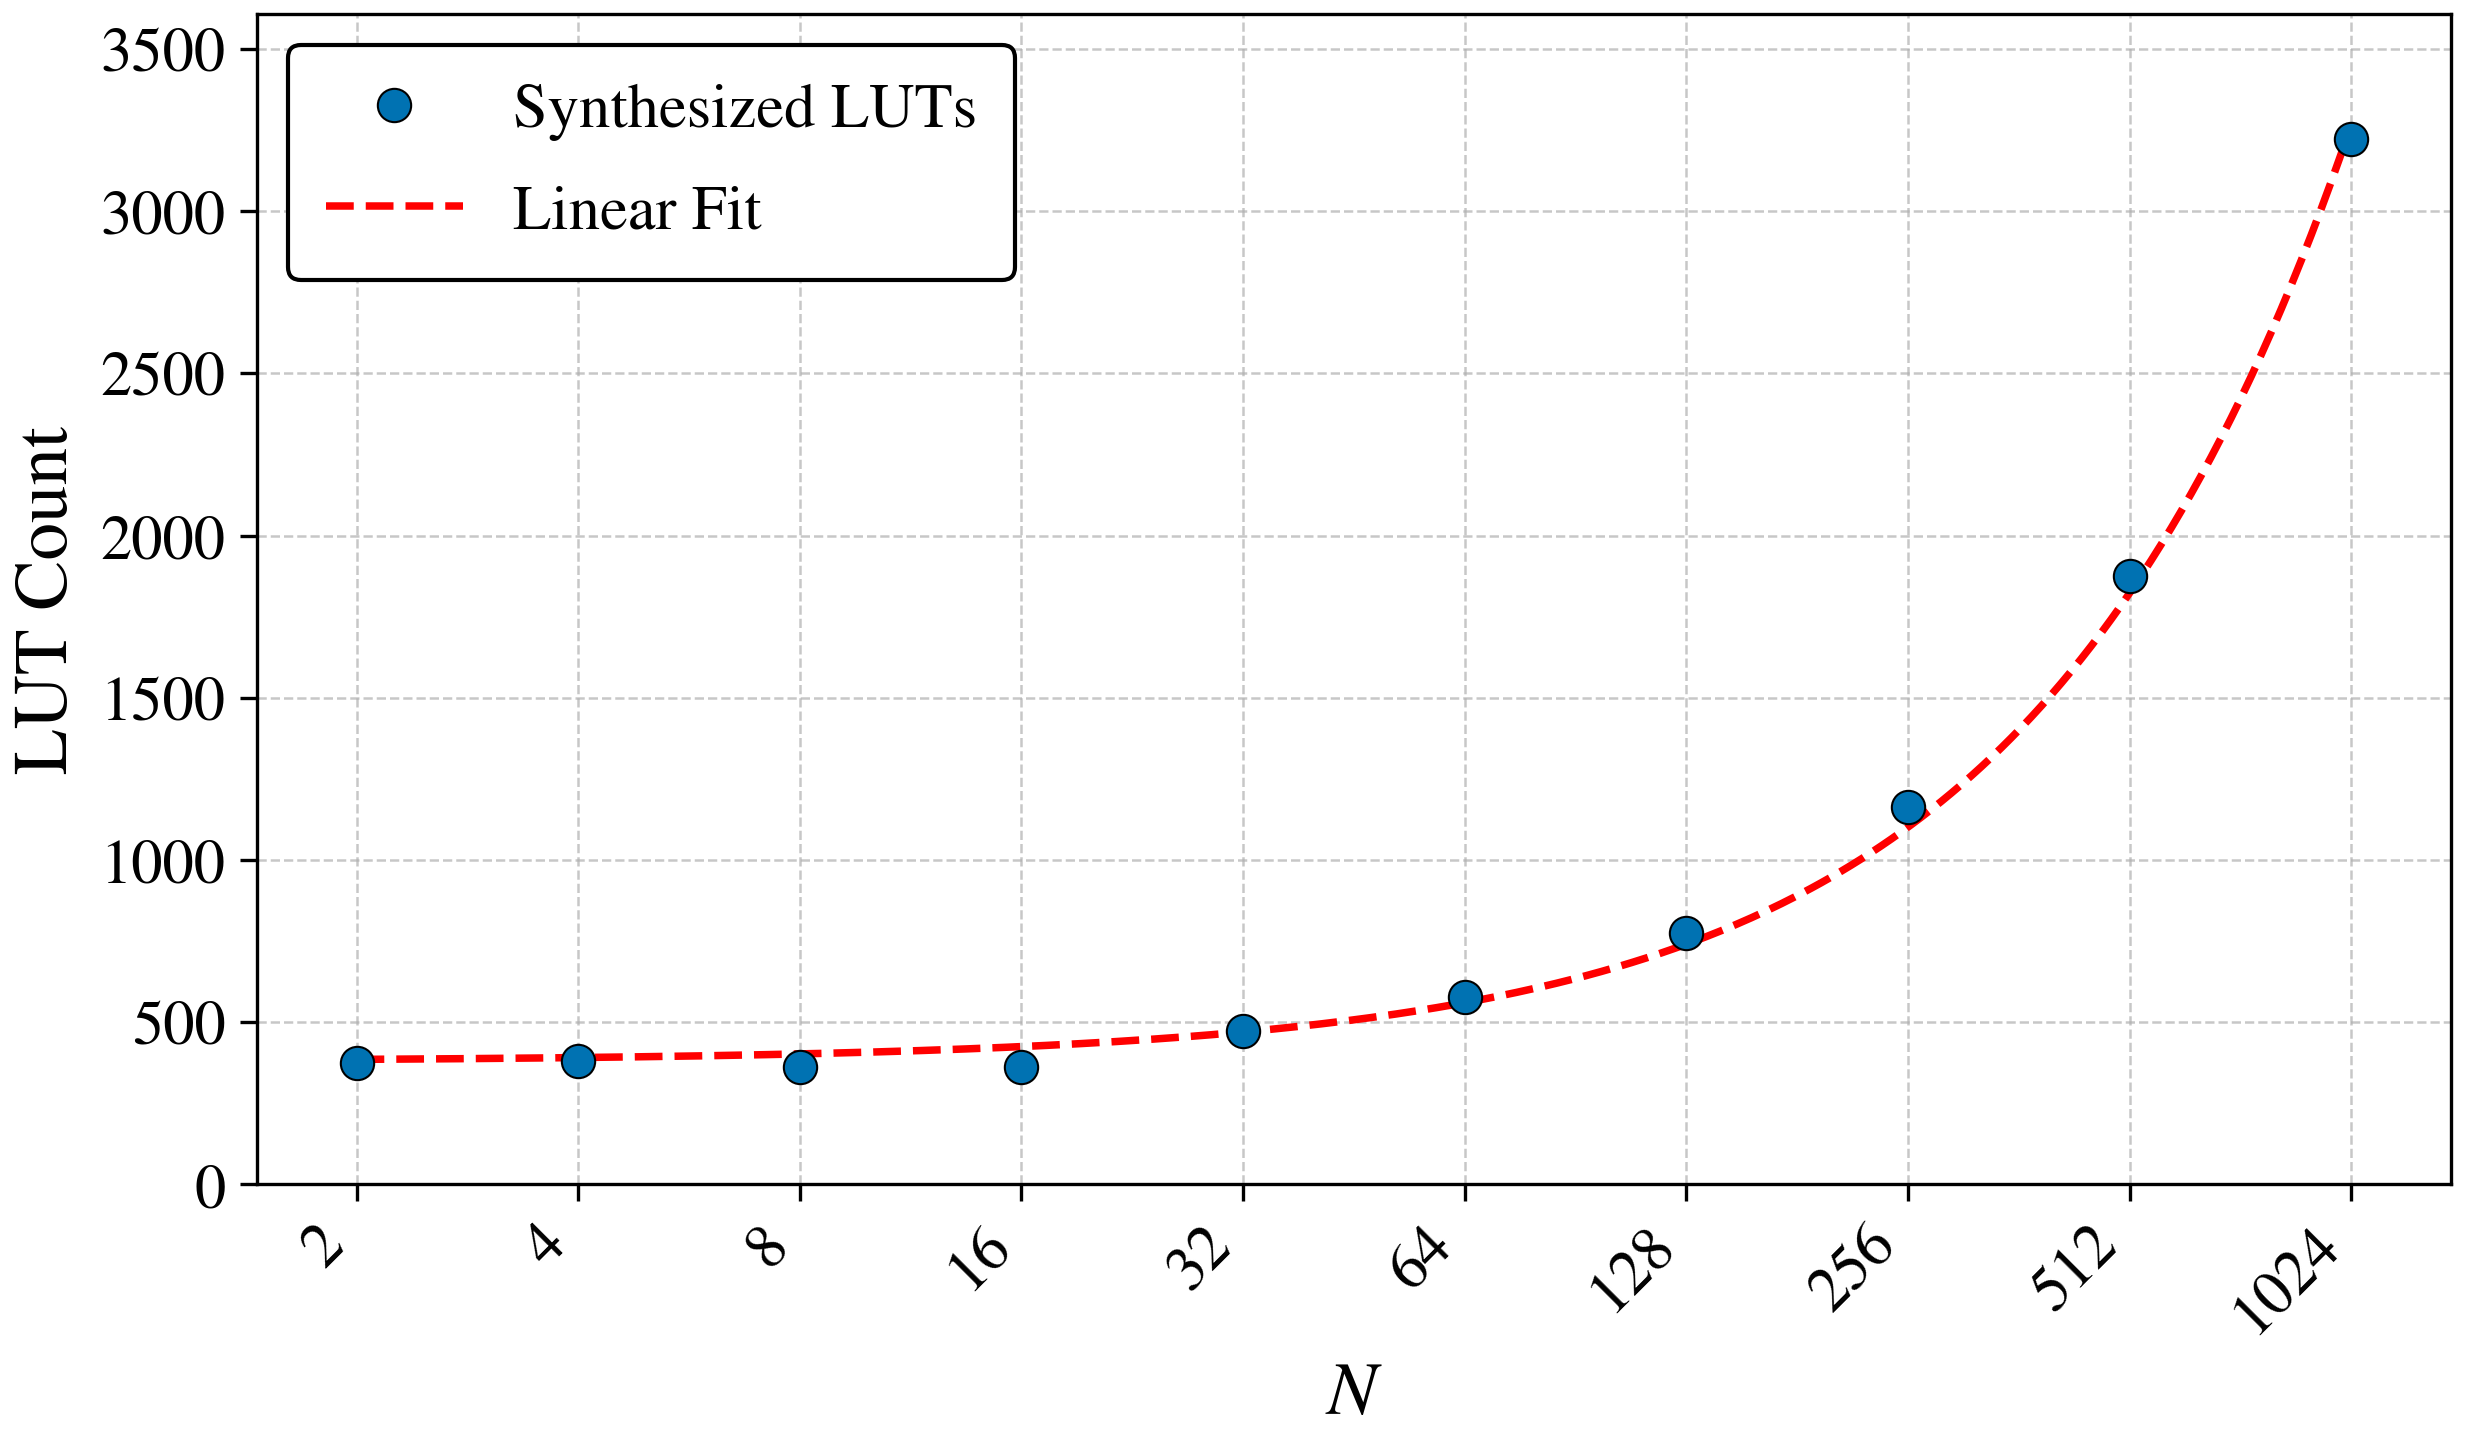
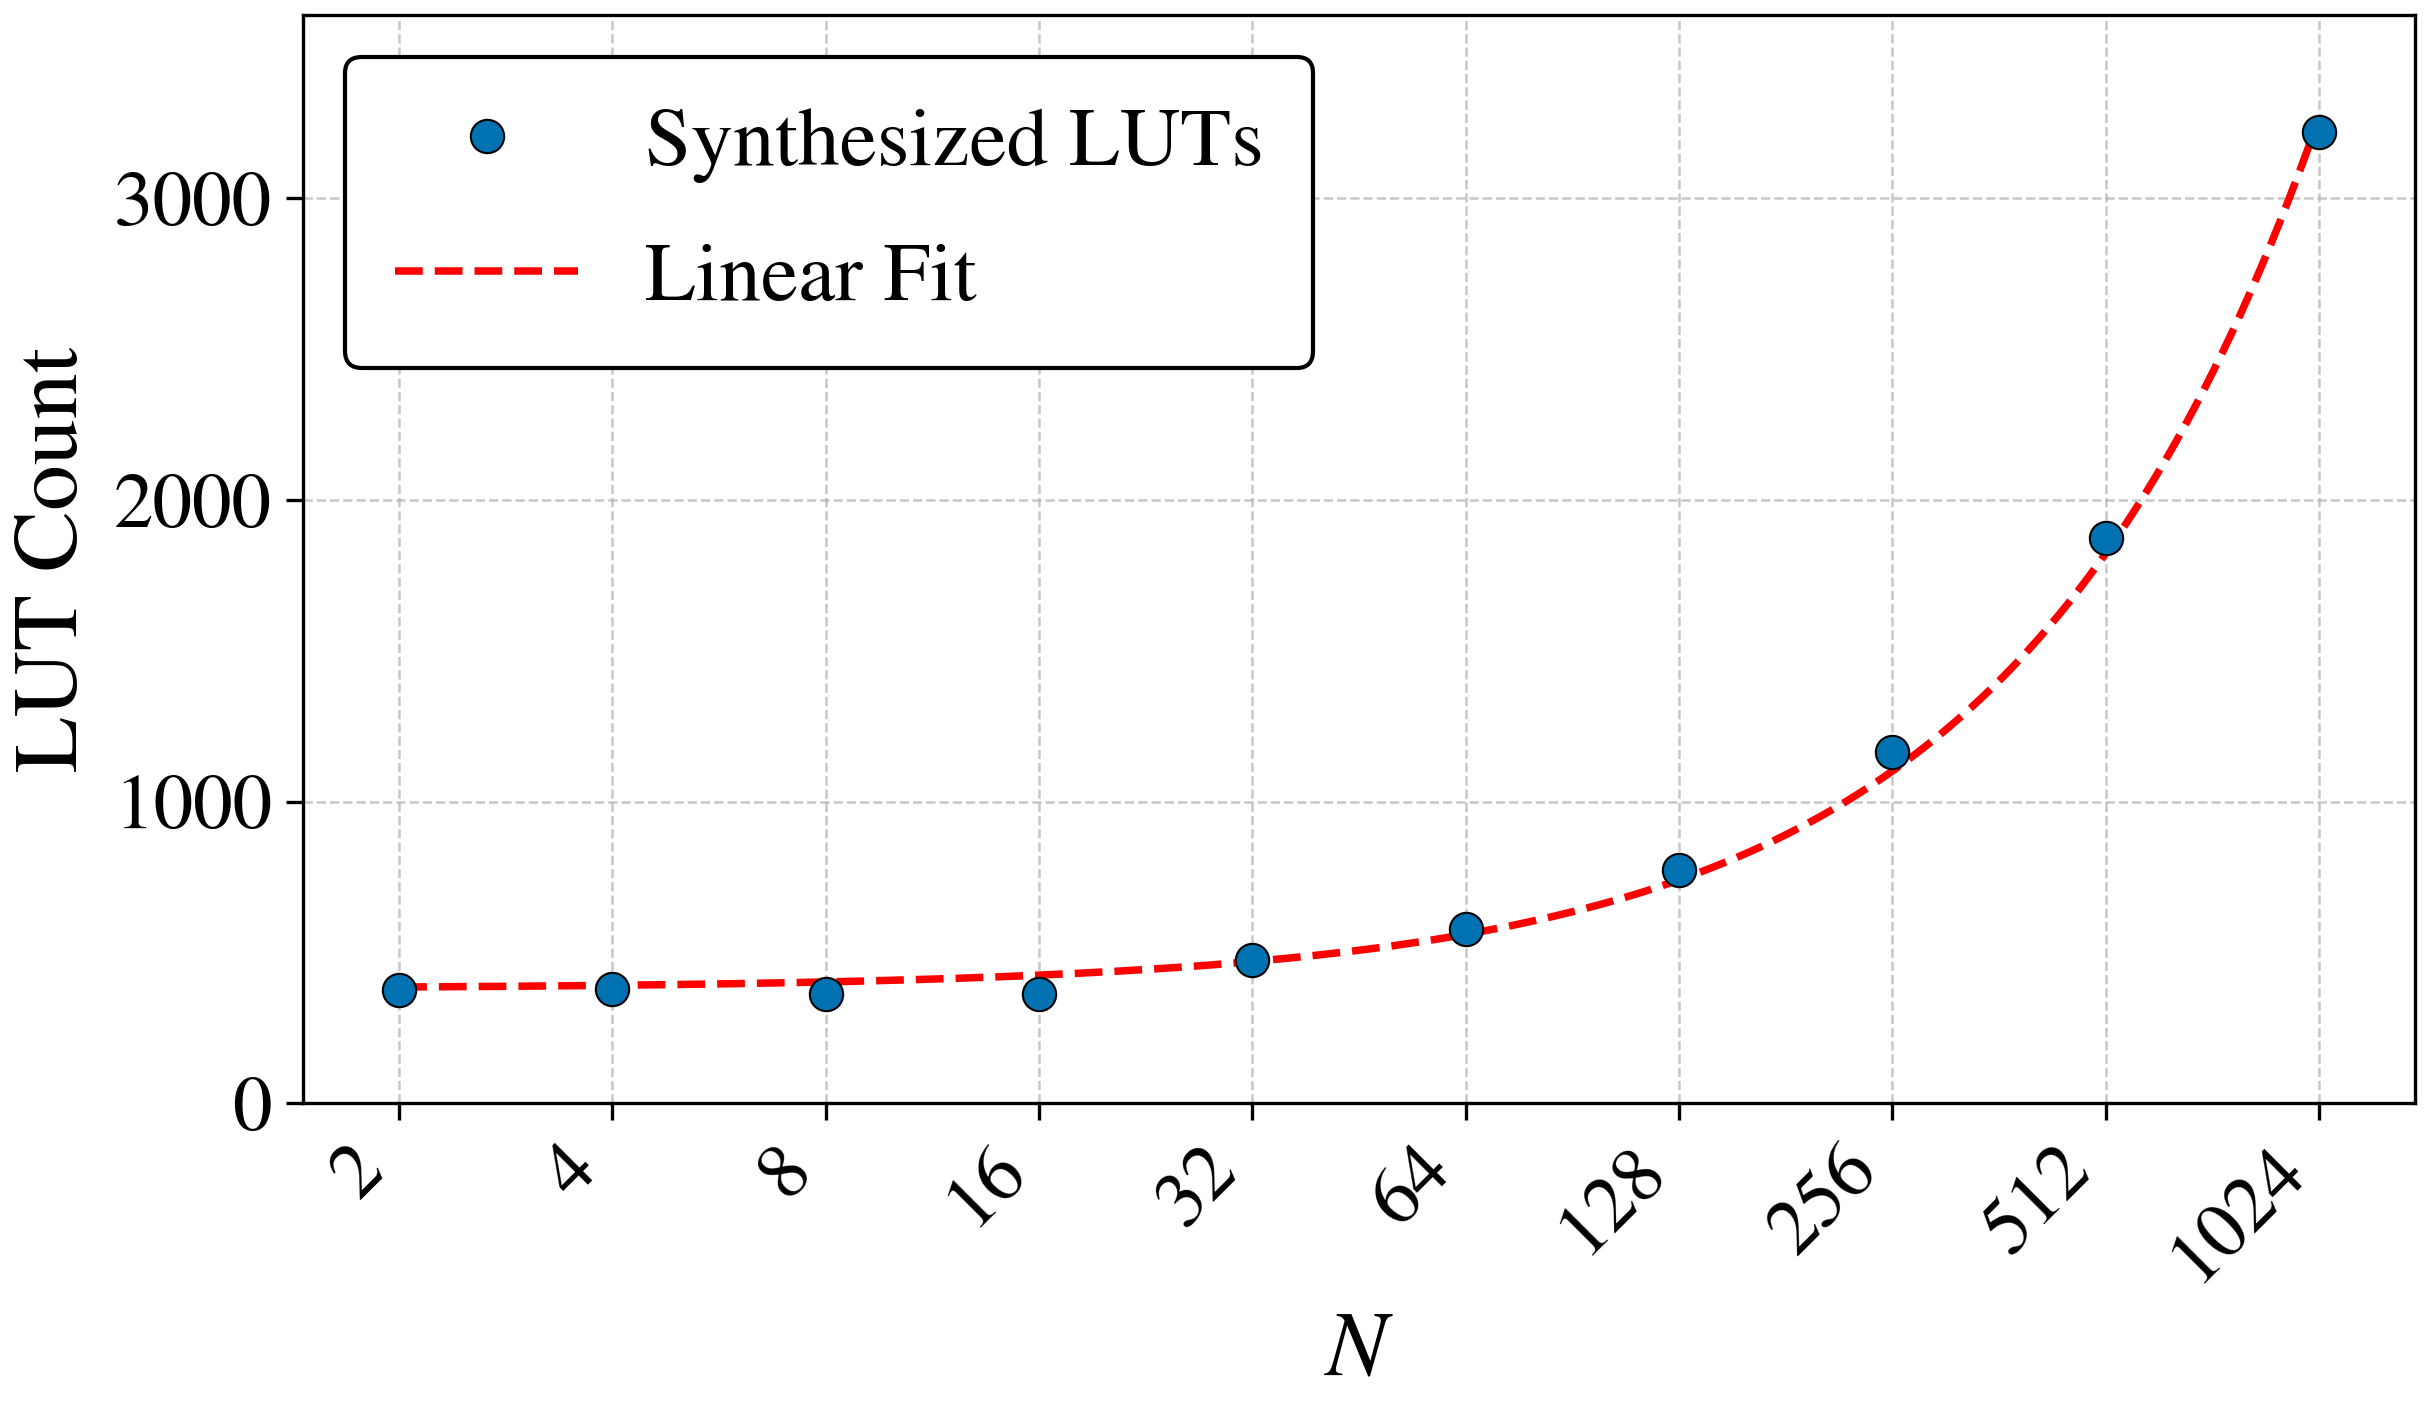
m

diff --git a/evaluation/layernorm/N_sweep/scripts/plot_accuracy.py b/evaluation/layernorm/N_sweep/scripts/plot_accuracy.py
@@ -147,12 +147,12 @@ def configure_style() -> None:
             "mathtext.fontset": "stix",
             "axes.unicode_minus": True,
             # Typographic sizes tuned for a ~half-to-full text-width figure.
-            "font.size": 16,
-            "axes.titlesize": 18,
-            "axes.labelsize": 18,
-            "xtick.labelsize": 15,
-            "ytick.labelsize": 15,
-            "legend.fontsize": 16,
+            "font.size": 20,
+            "axes.titlesize": 22,
+            "axes.labelsize": 22,
+            "xtick.labelsize": 19,
+            "ytick.labelsize": 19,
+            "legend.fontsize": 20,
             # Full black frame (all four spines) with outward ticks.
             "axes.linewidth": 0.8,
             "axes.edgecolor": "black",

diff --git a/evaluation/layernorm/N_sweep/scripts/plot_resources.py b/evaluation/layernorm/N_sweep/scripts/plot_resources.py
@@ -144,12 +144,12 @@ def configure_style() -> None:
             "font.serif": ["STIXGeneral", "DejaVu Serif"],
             "mathtext.fontset": "stix",
             "axes.unicode_minus": True,
-            "font.size": 16,
-            "axes.titlesize": 18,
-            "axes.labelsize": 18,
-            "xtick.labelsize": 15,
-            "ytick.labelsize": 15,
-            "legend.fontsize": 15,
+            "font.size": 20,
+            "axes.titlesize": 22,
+            "axes.labelsize": 22,
+            "xtick.labelsize": 19,
+            "ytick.labelsize": 19,
+            "legend.fontsize": 20,
             "axes.linewidth": 0.8,
             "axes.edgecolor": "black",
             "xtick.direction": "out",
